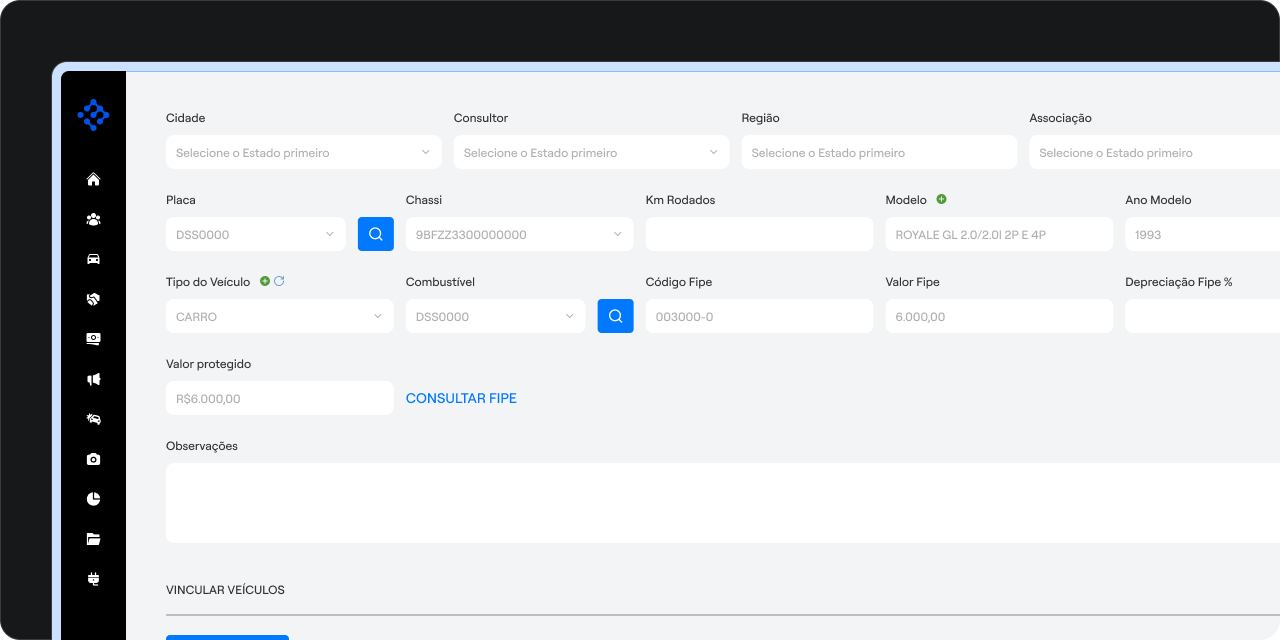
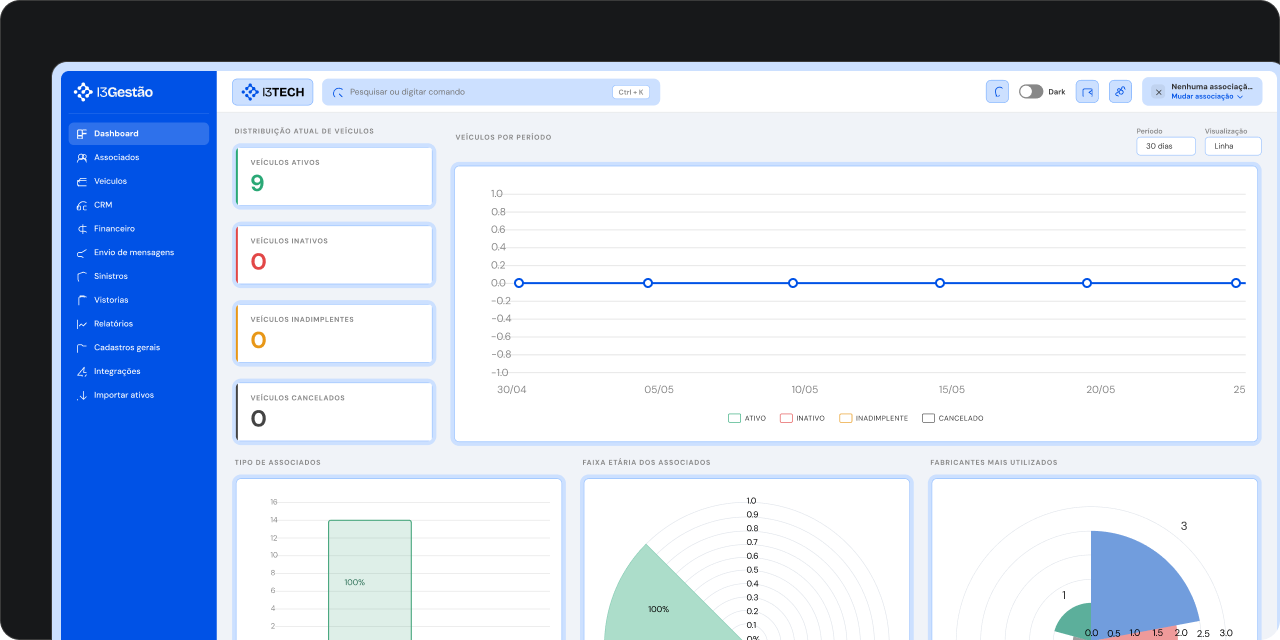
feat: adicionar script de captura Figma e atualizar imagem CRM

diff --git a/app/layout.tsx b/app/layout.tsx
@@ -1,5 +1,6 @@
 import type { Metadata } from "next";
 import localFont from "next/font/local";
+import Script from "next/script";
 import "./globals.css";
 import WhatsAppButton from "./components/WhatsAppButton";
 
@@ -82,6 +83,7 @@ export default function RootLayout({
         className="min-h-full flex flex-col antialiased"
         style={{ fontFamily: "var(--font-roobert), sans-serif" }}
       >
+        <Script src="https://mcp.figma.com/mcp/html-to-design/capture.js" strategy="afterInteractive" />
         {children}
         <WhatsAppButton />
         <script
